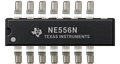
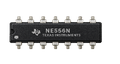
fix(a11): refine NE556N realistic lead geometry

diff --git a/frontend/public/assets/components/ne556n/README.md b/frontend/public/assets/components/ne556n/README.md
@@ -1,2 +1,6 @@
-# NE556N asset candidate
-Founder-approved horizontal visual. Deterministically normalized to canonical MYBlab DIP-14 breadboard geometry. Final freeze requires actual Canvas Founder PASS.
+# A11-COMP5 NE556N — CORR-003
+CORR-002 is rejected.
+CORR-003 preserves the complete Founder-approved raster, including all 14
+realistic metallic leads. No lead is redrawn. A single deterministic affine
+normalization maps the existing DIP-14 contacts to MYBlab's 12 px 1x pitch.
+Status: CSA_QUALIFIED_CANDIDATE_PENDING_CANVAS.
